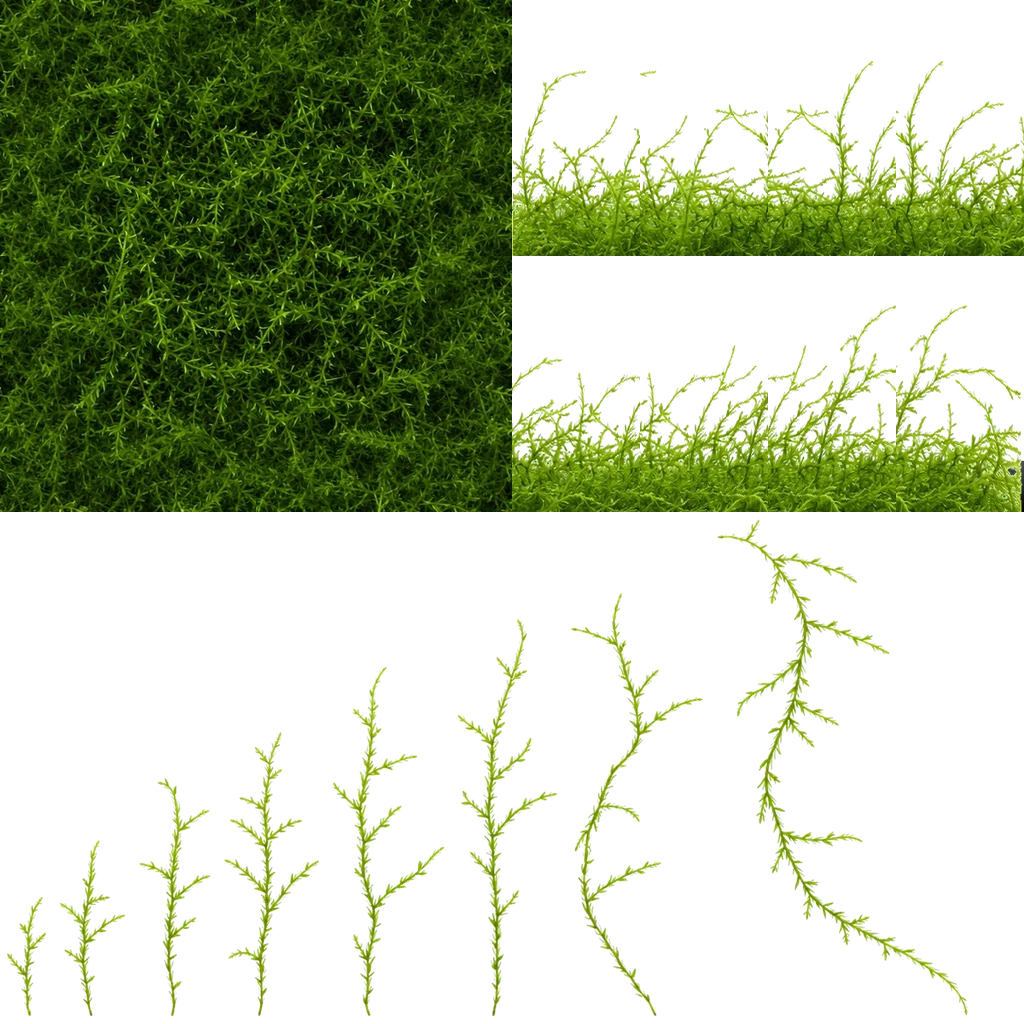
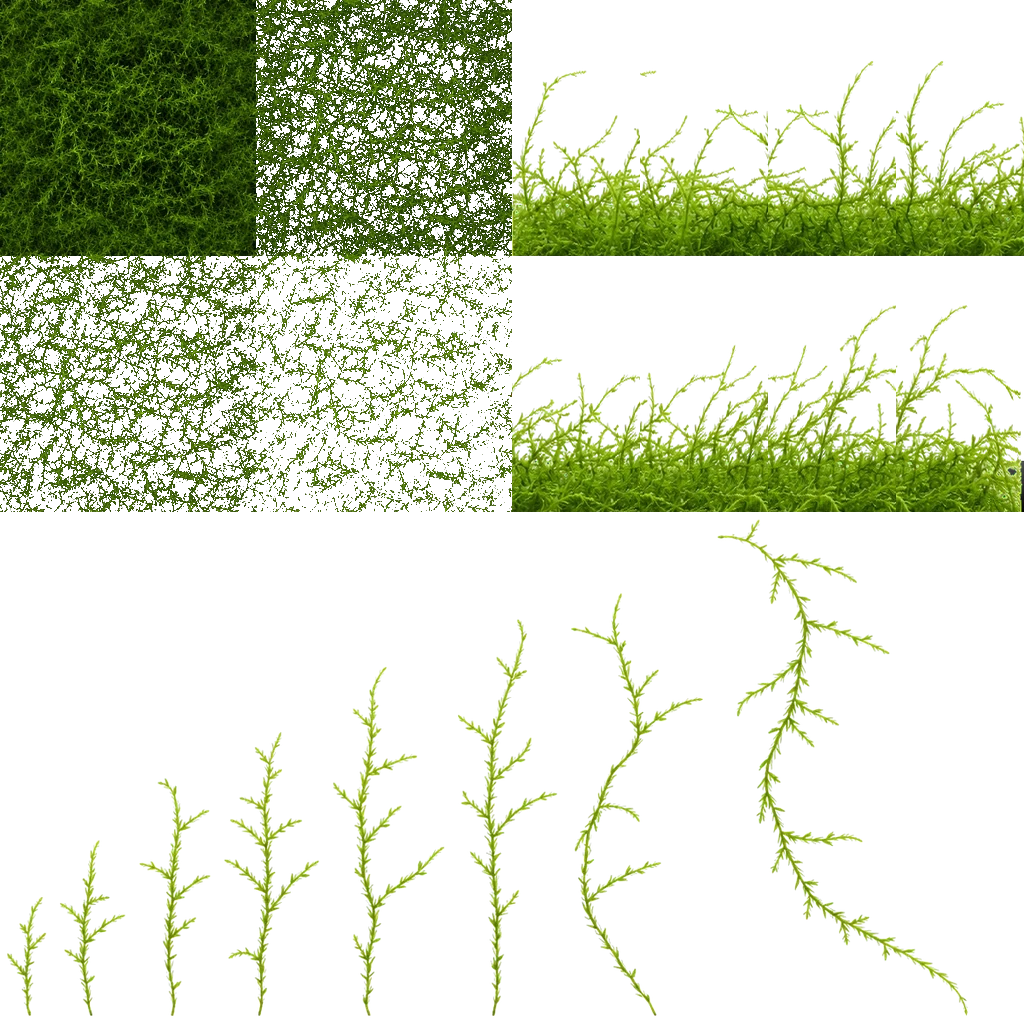
R182 lane JM step 3 pass 2 (Nathan 2026-11-26: 'looks like a rock covered in java moss, the transition between the moss and the under-mass is too stark. It should be a linearly increasing density, no step'): the java moss cushion is now a dark core inside 9 shells of the mat texture, each a little b

Changed region(s): [[0.0, 0.0, 0.5, 0.5]]

diff --git a/src/render/plant3d.ts b/src/render/plant3d.ts
@@ -34,7 +34,7 @@ type Rect4 = [number, number, number, number];
 /** Java moss's own texture (R182 lane JM, scripts/javamoss-skin.py): the mat tile's rect, the edge cards' (with the share
  *  below the cushion's outline and their width / height), the single strands' (each with its root in uv, hanging or not,
  *  and its length as a share of the longest). */
-const JMOSS = JMOSS_TEX as unknown as { mat: Rect4; edges: Rect4[]; edgeBase: number; edgeAspect: number; strands: { rect: Rect4; root: [number, number]; hang: boolean; len: number }[] };
+const JMOSS = JMOSS_TEX as unknown as { mat: Rect4; mats: Rect4[]; matCover: number[]; edges: Rect4[]; edgeBase: number; edgeAspect: number; strands: { rect: Rect4; root: [number, number]; hang: boolean; len: number }[] };
 
 /** Switches for review sheets: sway (off = every leaf rigid), emerse (off = no emersed
  *  twins: emerging plants lie over at the surface as in GR1), gpu (off = revealPlant on the CPU every growth step, as
@@ -855,24 +855,35 @@ export function plantGeometry(type: PlantType, seed: number, h: number, clump: C
     const hAt = (x: number, z: number) => { const t = Math.min(1, Math.hypot(x, z) / rim(Math.atan2(z, x))); return Ht * Math.pow(Math.max(0, 1 - t ** 2.2), 0.6) * (0.8 + 0.2 * lumps(x, z)); };
     const shade = (y: number, x: number, z: number) => (0.5 + 0.85 * Math.min(1, y / Ht * 1.15)) * (0.88 + 0.24 * lumps(x * 1.7, z * 1.7));
     const B = V(0, 0, 0), small: LeafTag = g0 < 0.02 ? SHOWN : { a: -0.82 * g0, w: 1.82 * g0 * 0.999 };
-    // the cushion: a grid over (x, z); corners past the rim are pulled in onto it (y a little under the sand)
-    const TS = 45, nC = Math.max(4, Math.ceil(TS / (R / 7))), cell = TS / nC, mt = J.mat; // TS: one copy of the mat tile, mm
-    const g0x = Math.floor(-R * 1.1 / cell), n1 = Math.ceil(R * 1.1 / cell) - g0x;
-    const vtx = (i: number, j: number) => {
-      let x = (g0x + i) * cell, z = (g0x + j) * cell;
-      const e = rim(Math.atan2(z, x)), d = Math.hypot(x, z);
-      if (d >= e) { x *= e / d; z *= e / d; return V(x, -h * 0.02, z); }
-      return V(x, hAt(x, z), z);
-    };
+    // the cushion: a solid core and shells over it, each a little bigger and sparser than the one inside (Nathan
+    // 2026-11-26, on the first build: "looks like a rock covered in java moss ... should be a linearly increasing
+    // density, no step"). Shell s (0 = core, 1 = the outer surface) is the cushion's height field shrunk toward the
+    // middle, wearing the mat level whose coverage is nearest 1 - s (J.mats: opaque, then fewer and fewer strands), its
+    // tile copies shifted by whole cells so no two shells' strands line up. Each is a grid over (x, z); corners past its
+    // rim are pulled in onto it (y a little under the sand).
+    const TS = 45, nC = Math.max(4, Math.ceil(TS / (R / 7))), cell = TS / nC; // TS: one copy of the mat tile, mm
+    const g0x = Math.floor(-R * 1.1 / cell), n1 = Math.ceil(R * 1.1 / cell) - g0x, NS = 9;
     const cp: number[] = [], cu: number[] = [], cc: number[] = [];
-    for (let i = 0; i < n1; i++) for (let j = 0; j < n1; j++) {
-      const c4 = [[i, j], [i + 1, j], [i + 1, j + 1], [i, j + 1]];
-      if (c4.every(([a, b]) => { const x = (g0x + a) * cell, z = (g0x + b) * cell; return Math.hypot(x, z) >= rim(Math.atan2(z, x)); })) continue;
-      const ti = Math.floor((g0x + i) / nC), tj = Math.floor((g0x + j) / nC); // the tile copy this cell is in
-      const pts = c4.map(([a, b]) => vtx(a, b));
-      for (const k of [0, 2, 1, 0, 3, 2]) { // (two triangles, wound to face up)
-        const p = pts[k], [a, b] = c4[k], u = (g0x + a) / nC - ti, w = (g0x + b) / nC - tj, sh = shade(Math.max(0, p.y), p.x, p.z);
-        cp.push(p.x, p.y, p.z); cu.push(mt[0] + (mt[2] - mt[0]) * u, mt[1] + (mt[3] - mt[1]) * w); cc.push(sh, sh, sh);
+    for (let li = 0; li <= NS; li++) {
+      const sv = li / NS, fr = 0.55 + 0.45 * sv, fh = 0.35 + 0.65 * sv, d = 1 - (li - 0.5) / NS;
+      const lv = li === 0 ? 0 : J.matCover.reduce((m, c, k) => (k && Math.abs(c - d) < Math.abs(J.matCover[m] - d) ? k : m), 1), mt = J.mats[lv];
+      const oi = li ? Math.floor(r() * nC) : 0, oj = li ? Math.floor(r() * nC) : 0, kL = 0.7 + 0.35 * sv;
+      const wp = [r() * 6.28, r() * 6.28], rimL = (x: number, z: number) => { const a = Math.atan2(z, x); return rim(a) * fr * (li ? 1 + 0.05 * Math.sin(4 * a + wp[0]) + 0.03 * Math.sin(7 * a + wp[1]) : 1); }; // (each shell's own wobble: no contour lines)
+      const vtx = (i: number, j: number) => {
+        let x = (g0x + i) * cell, z = (g0x + j) * cell;
+        const e = rimL(x, z), dd = Math.hypot(x, z);
+        if (dd >= e) { x *= e / dd; z *= e / dd; return V(x, -h * 0.02, z); }
+        return V(x, hAt(x / fr, z / fr) * fh, z);
+      };
+      for (let i = 0; i < n1; i++) for (let j = 0; j < n1; j++) {
+        const c4 = [[i, j], [i + 1, j], [i + 1, j + 1], [i, j + 1]];
+        if (c4.every(([a, b]) => { const x = (g0x + a) * cell, z = (g0x + b) * cell; return Math.hypot(x, z) >= rimL(x, z); })) continue;
+        const ti = Math.floor((g0x + i + oi) / nC), tj = Math.floor((g0x + j + oj) / nC); // the tile copy this cell is in
+        const pts = c4.map(([a, b]) => vtx(a, b));
+        for (const k of [0, 2, 1, 0, 3, 2]) { // (two triangles, wound to face up)
+          const p = pts[k], [a, b] = c4[k], u = (g0x + a + oi) / nC - ti, w = (g0x + b + oj) / nC - tj, sh = shade(Math.max(0, p.y), p.x, p.z) * kL;
+          cp.push(p.x, p.y, p.z); cu.push(mt[0] + (mt[2] - mt[0]) * u, mt[1] + (mt[3] - mt[1]) * w); cc.push(sh, sh, sh);
+        }
       }
     }
     const core = new THREE.BufferGeometry();

diff --git a/scripts/javamoss-skin.py b/scripts/javamoss-skin.py
@@ -5,7 +5,10 @@
 The sheet (prompt: research/plant-sheets/prompts/leaf-sheet.md, "Java moss sheet") is square: top left a seamless mat
 tile, top right a cushion's edge on white with strands sticking out, bottom eight single strands on white. Writes
 public/art/plants/javamoss.webp (1024 x 1024, alpha) and src/data/plantart/javamoss.json (rects in uv, v up):
-  - mat: the tile (made seamless), 512 x 512, top left. The skin of the cushion and of the coat over wood or rock.
+  - mats: the tile (made seamless) at four densities, 256 x 256 each, 2 x 2 in the top left 512 x 512: level 0 opaque
+    (the core), levels 1-3 keep only the brightest strands (coverage MAT_COVER): alpha from the tile's own light and dark.
+    The clump stacks them in shells, densest inside, so its density falls off evenly toward the tips (Nathan 2026-11-26:
+    'linearly increasing density, no step'). `mat` = level 0 (as before).
   - edges: 8 cards from the cushion's edge, 128 x 256, top right (two rows of 4). The outline is straightened to a fixed
     row; `edgeBase` = the share of the card's height below it (solid moss). They stand round the outline so it is ragged.
   - strands: the 8 single strands, cut by connected parts on white, packed along the bottom half at ONE scale (their
@@ -21,6 +24,8 @@ from PIL import Image
 ROOT = os.path.dirname(os.path.dirname(os.path.abspath(__file__)))
 AW = 1024
 MAT = 512
+LV = 256
+MAT_COVER = [1.0, 0.7, 0.45, 0.25]  # share of the tile kept at each level
 EDGE_W, EDGE_H, N_EDGE = 128, 256, 8
 EDGE_SRC_W, ABOVE, BELOW = 150, 240, 60  # source px: card width, reach above the outline, depth below it
 STRIP_Y, STRIP_H = 512, 512               # the strands' strip in the atlas
@@ -171,12 +176,18 @@ def main():
     y0, y1, x0, x1 = bbox(tl.min(2) < WHITE)
     n = min(y1 - y0, x1 - x0) - 16  # 8 px in: the panel's anti-aliased border is light (shows as a cross once rolled)
     tile = seamless(tl[y0 + 8:y0 + 8 + n, x0 + 8:x0 + 8 + n])  # (the sheet's tile is not seamless: seam diff = random columns)
-    mat = np.asarray(Image.fromarray(np.clip(tile, 0, 255).astype(np.uint8)).resize((MAT, MAT), Image.LANCZOS))
+    mat = np.asarray(Image.fromarray(np.clip(tile, 0, 255).astype(np.uint8)).resize((LV, LV), Image.LANCZOS))
     edges, edge_base, edge_aspect = cut_edges(im[:gy, gx2:])
     strip, strands = cut_strands(im[gy2:])
     atlas = np.zeros((AW, AW, 4), np.uint8)
-    atlas[:MAT, :MAT, :3] = mat
-    atlas[:MAT, :MAT, 3] = 255
+    lum = mat.astype(float) @ np.array([0.3, 0.59, 0.11])
+    fill = (mat.reshape(-1, 3).mean(0) * 0.6).astype(np.uint8)
+    for k, cov in enumerate(MAT_COVER):
+        r, q = divmod(k, 2)
+        t = np.percentile(lum, 100 * (1 - cov)) if cov < 1 else -1
+        a = np.clip((lum - t) / 6, 0, 1) if cov < 1 else np.ones_like(lum)  # (a short ramp: crisp under alphaTest 0.5)
+        blk = np.where(a[..., None] > 0.02, mat, fill)
+        atlas[r * LV:(r + 1) * LV, q * LV:(q + 1) * LV] = np.dstack([blk, a * 255]).astype(np.uint8)
     for i, c in enumerate(edges):
         r, q = divmod(i, 4)
         atlas[r * EDGE_H:(r + 1) * EDGE_H, MAT + q * EDGE_W:MAT + (q + 1) * EDGE_W] = c
@@ -189,7 +200,9 @@ def main():
     hp = 0.5 / AW
     man = {
         'file': 'javamoss.webp',
-        'mat': [hp, 0.5 + hp, 0.5 - hp, 1 - hp],
+        'mat': [hp, 0.75 + hp, 0.25 - hp, 1 - hp],
+        'mats': [[q * 0.25 + hp, 1 - (r + 1) * 0.25 + hp, (q + 1) * 0.25 - hp, 1 - r * 0.25 - hp] for r, q in (divmod(k, 2) for k in range(len(MAT_COVER)))],
+        'matCover': MAT_COVER,
         'edges': [[(MAT + q * EDGE_W + 1) / AW, 1 - ((r + 1) * EDGE_H - 1) / AW, (MAT + (q + 1) * EDGE_W - 1) / AW, 1 - (r * EDGE_H + 1) / AW]
                   for r, q in (divmod(i, 4) for i in range(N_EDGE))],
         'edgeBase': round(edge_base, 4),
